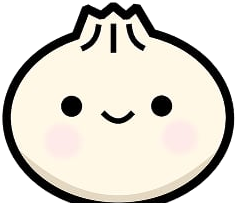
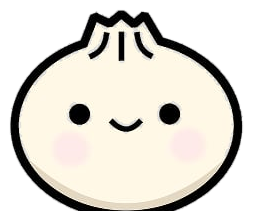
Fix the dumpling's clipped outline; add Date & Time panel and venue text by the map (#7)
The dumpling PNG had zero transparent margin — the artwork touched all four
pixel edges exactly. That left no room for anti-aliasing when the browser
scaled it, so on some renderers the outline stroke got shaved off right at
the edge, most visibly along the bottom of the corner dumplings on the live
site. Re-extracted it from the original scan with an 8px padding margin on
every side, and updated the width/height attributes and the OG image to
match.

Also added a dedicated Date & Time panel between the invitation and the map
panel, and put the venue name and address above the map itself, so a guest
scrolling straight to directions doesn't have to scroll back up to the
invitation to see them. The map's fallback card (shown if a host blocks
the embedded frame) no longer repeats the address underneath, since it's
now redundant with the text above it.

Claude-Session: https://claude.ai/code/session_01A4JMgJq7GZLsnT6zbo1rkM

diff --git a/index.html b/index.html
@@ -349,6 +349,42 @@
     color: var(--ink-soft);
   }
 
+  /* Date & Time ------------------------------------------------------------ */
+  .date-time {
+    text-align: center;
+  }
+
+  .date-time__day {
+    margin: 0 0 6px;
+    font-size: clamp(1.25rem, 4.6vw, 1.5rem);
+    letter-spacing: 0.01em;
+  }
+
+  .date-time__hours {
+    margin: 0;
+    font-size: 0.8rem;
+    text-transform: uppercase;
+    letter-spacing: 0.18em;
+    color: var(--ink-soft);
+  }
+
+  /* Venue name/address, reused above the map and in the invitation card -- */
+  .venue-name {
+    margin: -8px 0 4px;
+    text-align: center;
+    font-size: clamp(0.82rem, 3.1vw, 0.92rem);
+    text-transform: uppercase;
+    letter-spacing: 0.06em;
+  }
+
+  .venue-address {
+    margin: 0 0 22px;
+    text-align: center;
+    font-size: clamp(0.78rem, 2.9vw, 0.86rem);
+    letter-spacing: 0.04em;
+    color: var(--ink-soft);
+  }
+
   /* Map ------------------------------------------------------------------ */
   .map {
     position: relative;
@@ -393,14 +429,6 @@
   .map__fallback:hover .map__cue { color: var(--gold); }
 
   .map__pin { width: 22px; height: auto; fill: var(--gold); }
-
-  .map__label {
-    margin: 0;
-    font-size: 0.86rem;
-    letter-spacing: 0.06em;
-    color: var(--ink-soft);
-    max-width: 30ch;
-  }
 
   .map__cue {
     margin: 0;
@@ -605,7 +633,7 @@
 
   <!-- Password gate -->
   <section class="gate" id="gate">
-    <img class="gate__bao" src="assets/dumpling.png" alt="A smiling soup dumpling" width="237" height="203">
+    <img class="gate__bao" src="assets/dumpling.png" alt="A smiling soup dumpling" width="253" height="219">
     <p class="eyebrow">A little dumpling is on the way</p>
     <h1 class="gate__title">Sylvia &amp; Andrew</h1>
     <p class="gate__hint">Please enter the password from your invitation to see the details.</p>
@@ -621,8 +649,8 @@
   <div id="content" hidden>
 
     <article class="card">
-      <img class="bao bao--tl" src="assets/dumpling.png" alt="" width="237" height="203">
-      <img class="bao bao--br" src="assets/dumpling.png" alt="" width="237" height="203">
+      <img class="bao bao--tl" src="assets/dumpling.png" alt="" width="253" height="219">
+      <img class="bao bao--br" src="assets/dumpling.png" alt="" width="253" height="219">
 
       <header class="invite">
         <p class="invite__kicker">A little</p>
@@ -652,8 +680,16 @@
       </section>
     </article>
 
+    <section class="panel date-time">
+      <h2 class="panel__title">Date &amp; Time</h2>
+      <p class="date-time__day">Sunday, November 8, 2026</p>
+      <p class="date-time__hours">12:00 &ndash; 4:00 PM</p>
+    </section>
+
     <section class="panel">
       <h2 class="panel__title">Finding us</h2>
+      <p class="venue-name">Beresford Recreation Center &mdash; Assembly Room</p>
+      <p class="venue-address">2720 Alameda de las Pulgas, San Mateo, CA 94403</p>
       <div class="map" id="map">
         <iframe
           class="map__frame"
@@ -662,9 +698,8 @@
           src="https://www.google.com/maps?q=Beresford%20Recreation%20Center%2C%202720%20Alameda%20de%20las%20Pulgas%2C%20San%20Mateo%2C%20CA%2094403&output=embed"
           loading="lazy"
           referrerpolicy="no-referrer-when-downgrade"></iframe>
-        <a class="map__fallback" href="https://www.google.com/maps/search/?api=1&query=Beresford+Recreation+Center%2C+2720+Alameda+de+las+Pulgas%2C+San+Mateo%2C+CA+94403" target="_blank" rel="noopener">
+        <a class="map__fallback" href="https://www.google.com/maps/search/?api=1&query=Beresford+Recreation+Center%2C+2720+Alameda+de+las+Pulgas%2C+San+Mateo%2C+CA+94403" target="_blank" rel="noopener" aria-label="Open Beresford Recreation Center in Google Maps">
           <svg class="map__pin" viewBox="0 0 24 24" aria-hidden="true"><path d="M12 0C7.6 0 4 3.6 4 8c0 6 8 16 8 16s8-10 8-16c0-4.4-3.6-8-8-8Zm0 11a3 3 0 1 1 0-6 3 3 0 0 1 0 6Z"/></svg>
-          <p class="map__label">Beresford Recreation Center, 2720 Alameda de las Pulgas, San Mateo</p>
           <p class="map__cue">Open in Google Maps</p>
         </a>
       </div>

diff --git a/README.md b/README.md
@@ -38,8 +38,10 @@ within a minute or two.
 ## Changing the details
 
 Everything a guest reads lives in the `<body>` of `index.html`. The date appears in
-four places that must stay in sync: the invitation block, the Google Calendar link,
-`assets/baby-shower.ics`, and the map/directions links.
+five places that must stay in sync: the invitation block, the Date & Time panel, the
+Google Calendar link, `assets/baby-shower.ics`, and the map/directions links. The
+venue name and address appear in three: the invitation block, the Finding Us panel,
+and the map/directions/calendar links.
 
 The link preview shown when the URL is shared (its title, description, and
 `assets/og-image.png`) is set separately, in the Open Graph `<meta>` tags near the
